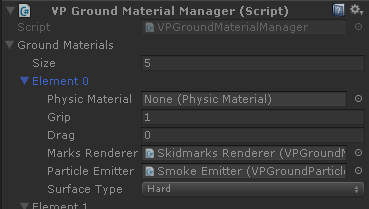
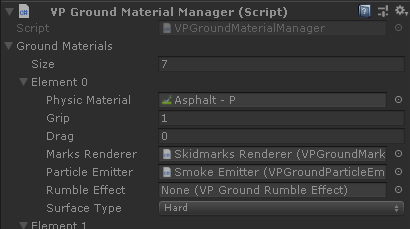
Ground Materials section updated

diff --git a/docs/components/ground-materials.md b/docs/components/ground-materials.md
@@ -87,12 +87,17 @@ Particle Emitter
 	emitting particles on this ground material. Particles will be triggered by the component
 	[VPTireEffects](vehicle-addons.md#vptireeffects) if available in the vehicle.
 
+Rumble Effect
+:	Optional reference to a [VPGroundRumbleEffect](#vpgroundrumbleeffect) component for simulating
+	rumble and ground relief in the wheels without depending on the collision geometry.
+
 Surface Type
 :	A _hint_ on the type of surface. Mostly used by vehicle add-on components such as [VPAudio](vehicle-addons.md#vpaudio)
-	for playing different effects.
+	for playing different effects:
 
-	- Hard surfaces: asphalt, tarmac, concrete, metal...
-	- Soft surfaces: offroad, mud, grass, sand, gravel...
+ 	- **Hard**: tire skid audio, hard impacts, hard body drag, body scratches (asphalt, tarmac, concrete, metal...)
+	- **Soft**: offroad rumble audio, soft impacts, soft body drag (offroad, mud, grass, sand, gravel...)
+	- **Neutral**: no tire nor rumble audio, hard impacts, hard body drag, body scratches (ice)
 
 ### VPGroundMarksRenderer
 
@@ -100,18 +105,18 @@ Dynamically creates and renders the marks over the ground.
 
 ![VP Ground Marks Renderer Inspector](/img/components/vpp-ground-marks-renderer-inspector.png){: .img-medium .clickview }
 
-Each type of marks is generated by a VPGroundMarksRenderer component bound to a specific
-[GroundMaterial](#groundmaterial). The component [VPGroundMaterialManager](#vpgroundmaterialmanager)
-manages all the Ground Materials and Ground Mark Renderers for the scene.
+Each type of marks is generated by a VPGroundMarksRenderer component bound to one or several
+[Ground Materials](#groundmaterial). The component [VPGroundMaterialManager](#vpgroundmaterialmanager)
+manages all the Ground Materials and Ground Mark Renderers in the scene.
 
 Mode
 :	Conditions that trigger the tire marks:
 
-	- Pressure And Skid: marks are generated when tire is skidding over the surface. The intensity
+	- **Pressure And Skid**: marks are generated when tire is skidding over the surface. The intensity
 		of the marks depend on the vertical force (pressure) and the slip velocity.
 		Example: typical skid marks on tarmac.
 
-	- Pressure Only: marks are generated always when the tire is touching the surface. The
+	- **Pressure Only**: marks are generated always when the tire is touching the surface. The
 		intensity of the marks depend on the vertical force (pressure) only. Example: tire marks
 		on mud.
 
@@ -152,17 +157,17 @@ Particle System component and a material for the particles.
 ![VP Ground Particle Emitter Inspector](/img/components/vpp-ground-particle-emitter-inspector.png){: .img-medium .clickview }
 
 Each type of particle effect is generated by a pair VPGroundParticleEmitter - ParticleSystem. The
-VPGroundParticleEmitter component is bound to a specific [GroundMaterial](#groundmaterial).
+VPGroundParticleEmitter component is bound to one or several [Ground Materials](#groundmaterial).
 The component [VPGroundMaterialManager](#vpgroundmaterialmanager) manages all the Ground Materials
-and Ground Particle Emitters for the scene.
+and Ground Particle Emitters in the scene.
 
 Mode
 :	Conditions that trigger the particle effect:
 
-	- Pressure And Skid: the tire skidding over the surface triggers the particle effect. The
+	- **Pressure And Skid**: the tire skidding over the surface triggers the particle effect. The
 		intensity of the effect depends on the vertical force (pressure) and the slip velocity.
 		Example: tire smoke on burnouts.
-	- Pressure And Velocity: the wheel moving on the surface triggers the particle effect. The
+	- **Pressure And Velocity**: the wheel moving on the surface triggers the particle effect. The
 		intensity of the effect depends on the vertical force (pressure) and the speed. Example:
 		dust clouds on sand.
 
@@ -190,6 +195,68 @@ Color 1
 RandomColor, Color 2
 :	If RandomColor is checked, a random color in the range Color1 - Color2 will be applied to each
 	new particle.
+
+### VPGroundRumbleEffect
+
+Implements rumble effects for ground materials (kerbs, offroad, etc) by applying vertical rumble
+forces at the wheel contact point. The component simulates "virtual bumps" and applies forces to
+the car pretending the wheel is driving over them.
+
+![VP Ground Rumble Effect Inspector](/img/components/vpp-ground-rumble-effect-inspector.png){: .img-medium .clickview }
+
+Each type of rumble effect is generated by a VPGroundRumbleEffect component bound to one or several
+[Ground Materials](#groundmaterial). The component [VPGroundMaterialManager](#vpgroundmaterialmanager)
+manages all the Ground Materials and Ground Rumble Effects in the scene.
+
+Wafeform
+:	The shape of the "virtual bumps" when the wheel drives over them.
+
+	- **Triangle**. Linear up and linear down.
+	- **Saw**. Linear up, then step down.
+	- **Perlin**. Uses Unity's [Mathf.PerlinNoise](https://docs.unity3d.com/ScriptReference/Mathf.PerlinNoise.html)
+		for simulating pseudo-random smooth irregularities.
+	- **Step**. Step up. Just raises the wheel while driving on this effect.
+
+	Triangle and Saw are good for ribbed kerbs or "rumble strips" in racing circuits.
+
+	Perlin is good for general irregularities. Offroad and grass have a lower period length
+	(= higher frequency), while road and track surfaces may use a larger period length (= lower
+	frequency).
+
+	Step may be used for road sidewalks or non-ribbed kerbs in racing circuits.
+
+Amplitude
+:	The total height (m) of the "virtual bumps", from the lowest to the highest point.
+
+Mid Point
+:	Where to locate the mid point of the bump height. For example, if Amplitude is 0.10 (10 cm):
+
+	- 0.0: base of the bump at surface level, then bumps are 10 cm height.
+	- 0.5: bump sinks 5 cm to the surface, and raises other 5 cm.
+	- 1.0: bump sinks 10 cm to the surface, with the higher part at surface level.
+
+Period Length
+:	Length in m of a single cycle in the waveform:
+
+	- Triangle: length between each valley or peak.
+	- Saw: length between each peak.
+	- Perlin: length of a normalized perlin coordinate.
+	- Step: no effect.
+
+Perlin Seed
+:	Seed to the perlin randomness. Will be used as coordinate X in the call to [Mathf.PerlinNoise](https://docs.unity3d.com/ScriptReference/Mathf.PerlinNoise.html).
+
+Force Limiter
+:	Factor that limits the magnitude of the force to apply, as multiplier of the current vertical
+	suspension force. More force allows to raise the wheel more, but also may produce unexpected
+	effects.
+
+No Effect Speed
+:	The ground rumble effect is canceled below this speed (m/s).
+
+Full Effect Speed
+:	The effect is fully applied above this speed (m/s). Bellow this speed the effect is faded to
+	cancellation at No Effect Speed.
 
 ### Custom Ground Materials
 
@@ -233,19 +300,20 @@ public class GroundMaterial
 	public float grip = 1.0f;
 	public float drag = 0.0f;
 
-	// Wheel trails and particle emitters triggered on this ground material.
+	// Wheel effects triggered when driving on this ground material.
 
 	public VPGroundMarksRenderer marksRenderer;
 	public VPGroundParticleEmitter particleEmitter;
+	public VPGroundRumbleEffect rumbleEffect;
 
 	// Surface type affects the audio clips and other effects that are invoked
 	// depending on the surface. See the VPAudio component.
 	//
-	// Hard: tire skid audio, hard impacts, hard body drag, body scratches
-	// Soft: offroad rumble, soft impacts, soft body drag
+	// Hard: tire skid audio, hard impacts, hard body drag, body scratches (i.e. asphalt)
+	// Soft: offroad rumble, soft impacts, soft body drag (i.e. offroad)
+	// Neutral: no tire nor rumble audio, hard impacts, hard body drag, body scratches (i.e. ice)
 
-	public enum SurfaceType { Hard, Soft };
-	public SurfaceType surfaceType = SurfaceType.Hard;
+	public enum SurfaceType { Hard, Soft, Neutral };
 
 	// Custom pointer to be used from scripting when you need to reference additional
 	// data per ground material in your own custom ground material manager.
